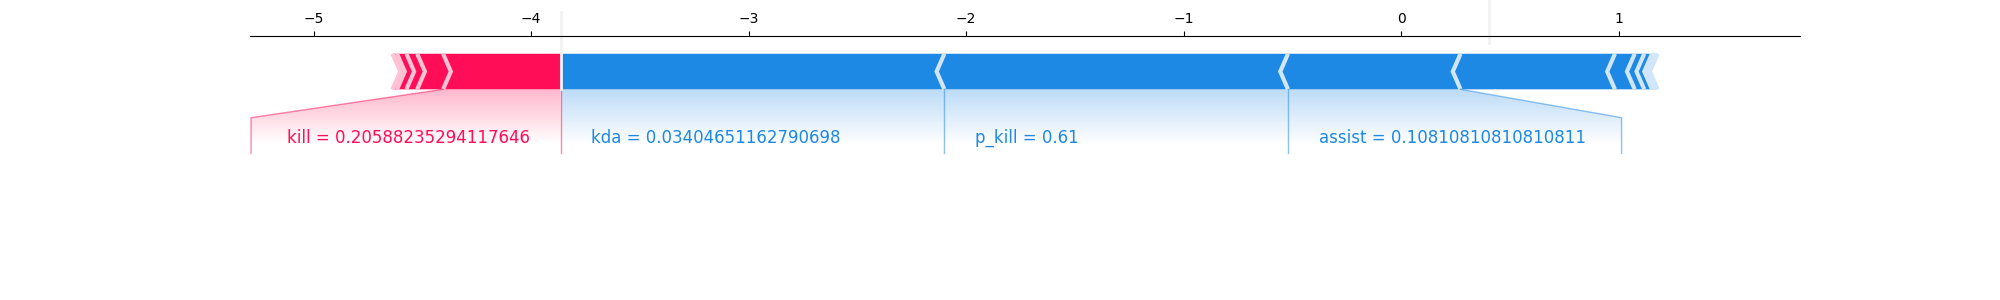
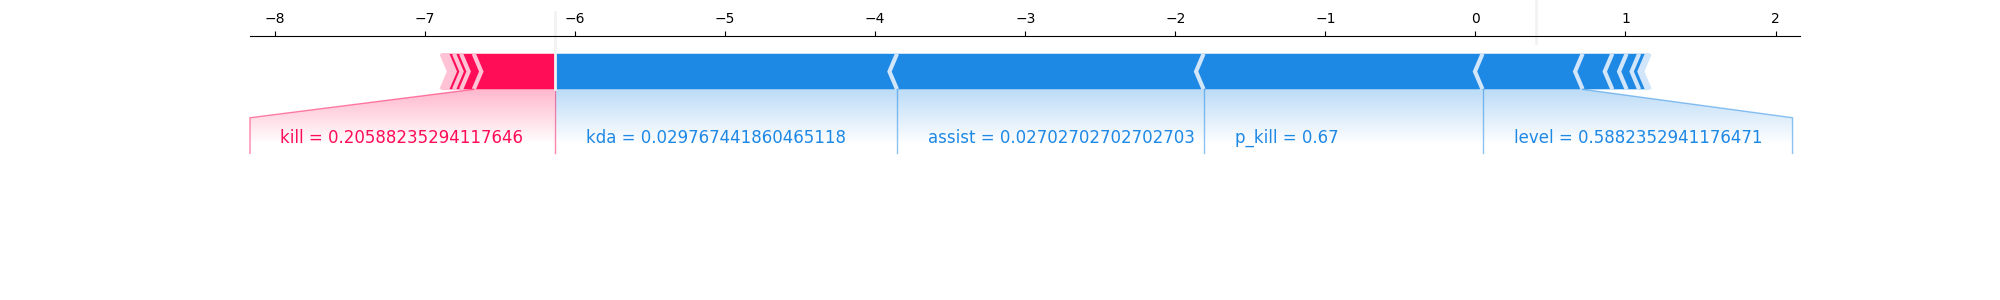
중간 완성

diff --git a/project3/templates/index.html b/project3/templates/index.html
@@ -23,8 +23,7 @@
                 <div class="container-fluid px-4 px-lg-0">
                     <h1 class="fst-italic lh-1 mb-4">소환사 이름 검색</h1>
                     <p class="mb-5">소환사명을 검색하면 최근 20게임들 중 '소환사의 협곡'에서 경기한 전적데이터들을 보여줄 것입니다.</p>
-                    <!-- to get an API token!-->
-                    <form id="contactForm" method="GET">
+                    <form action="{% url 'index2' %}" method="get">
                         <div class="row input-group-newsletter">
                             <div class="col"><input class="form-control" name="summoners" type="text" placeholder="소환사명을 입력하세요."/></div>
                             <div class="col-auto"><button class="btn btn-primary" id="submit" type="submit">Search</button></div>

diff --git a/project3/templates/index3.html b/project3/templates/index3.html
@@ -25,7 +25,7 @@
         </div>
       </header>
       <section class="bg-light" id="about">
-        <img src="static/image/shap.png" alt="shap">
+        <img src="../static/image/shap.png" alt="shap" width="1700">
       </section>
       <footer class="py-5 bg-dark">
         <div class="container px-4"><p class="m-0 text-center text-white">제작자 : 정태환</p></div>

diff --git a/project3/views.py b/project3/views.py
@@ -7,18 +7,21 @@ from sklearn.preprocessing import LabelEncoder, MinMaxScaler
 import pickle
 import numpy as np
 from .ai import preprocess, shap_plot
+from django.http import HttpResponseRedirect
+from .form import NameForm
 
 # Create your views here.
 def index(request):
     return render(request, 'index.html')
 
-def index2(request, summoners):
-    dat = data.objects.get(summoners=summoners)
+def index2(request):
+    name = request.GET['summoners']
+    dat = data.objects.filter(summoners=name)
     context = {"data" : dat}
     return render(request, 'index2.html', context)
 
 def index3(request, id):
-    with open('model.pickle', 'rb') as fr:
+    with open('project3/model.pickle', 'rb') as fr:
         model = pickle.load(fr)
     pro_x, y, pro_df = preprocess()
     shap_plot(model, pro_df, id)

diff --git a/project3/ai.py b/project3/ai.py
@@ -70,7 +70,7 @@ def row_drop():
 
 def preprocess():
     # 필요없는 칼럼들 drop
-    df = pd.read_csv('drop_data.csv')
+    df = pd.read_csv('project3/drop_data.csv')
     df.drop(['summoners', 'items', 'team_champs', 'team', 'enemy_champ', 'enemy'], axis=1, inplace=True)
 
     # 시간을 초단위로 변환
@@ -155,7 +155,7 @@ def shap_plot(model, pro_df, index):
         features=row,
         show=False,
         matplotlib = True
-    ).savefig('static/image/shap.png')
+    ).savefig('project3/static/image/shap.png')
     return explainer, shap_values
 
 # pro_x, y, pro_df = preprocess()

diff --git a/project3/urls.py b/project3/urls.py
@@ -3,6 +3,6 @@ from . import views
 
 urlpatterns = [
     path('', views.index, name='index'),
-    path('<str:summoners>/', views.index2, name='index2'),
+    path('table/', views.index2, name='index2'),
     path('<int:id>/', views.index3, name='index3')
 ]

diff --git a/project3/form.py b/project3/form.py
@@ -1,0 +1,4 @@
+from django import forms
+
+class NameForm(forms.Form):
+    name = forms.CharField(max_length=255)
